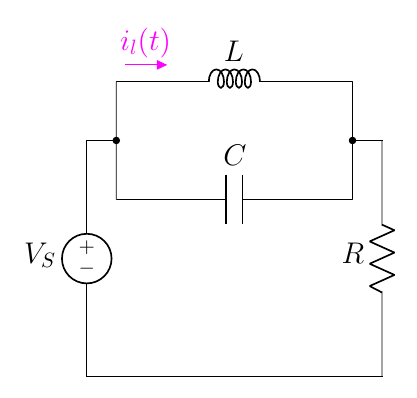
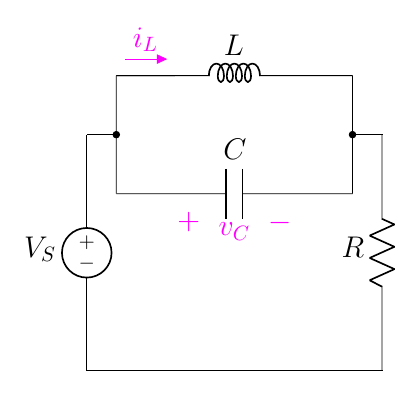
8.46

diff --git a/2.10 Step Response of a Parallel RLC/8.6 Complete Response Parallel/8.46(new).tex b/2.10 Step Response of a Parallel RLC/8.6 Complete Response Parallel/8.46(new).tex
@@ -33,11 +33,11 @@
     %%% find %%%
     % \node at (3.2,1.5)[]{$t=0$};
 
-    % \draw[magenta](4.2,0.5)
-    %     to[open, v>=$v_c(t)$] ++(0,2);
+    \draw[magenta](1.5,2.8)
+        to[open, v<=$v_C$] ++(2,0);
 
     \draw[circuitikz/current arrow color=magenta](0.5,5)
-        to[open,f>^=$\color{magenta}{i_l(t)}$] ++(2.4,0);
+        to[open,f>^=$\color{magenta}{i_L}$] ++(2.4,0);
 
 \end{circuitikz}
 \end{document}
